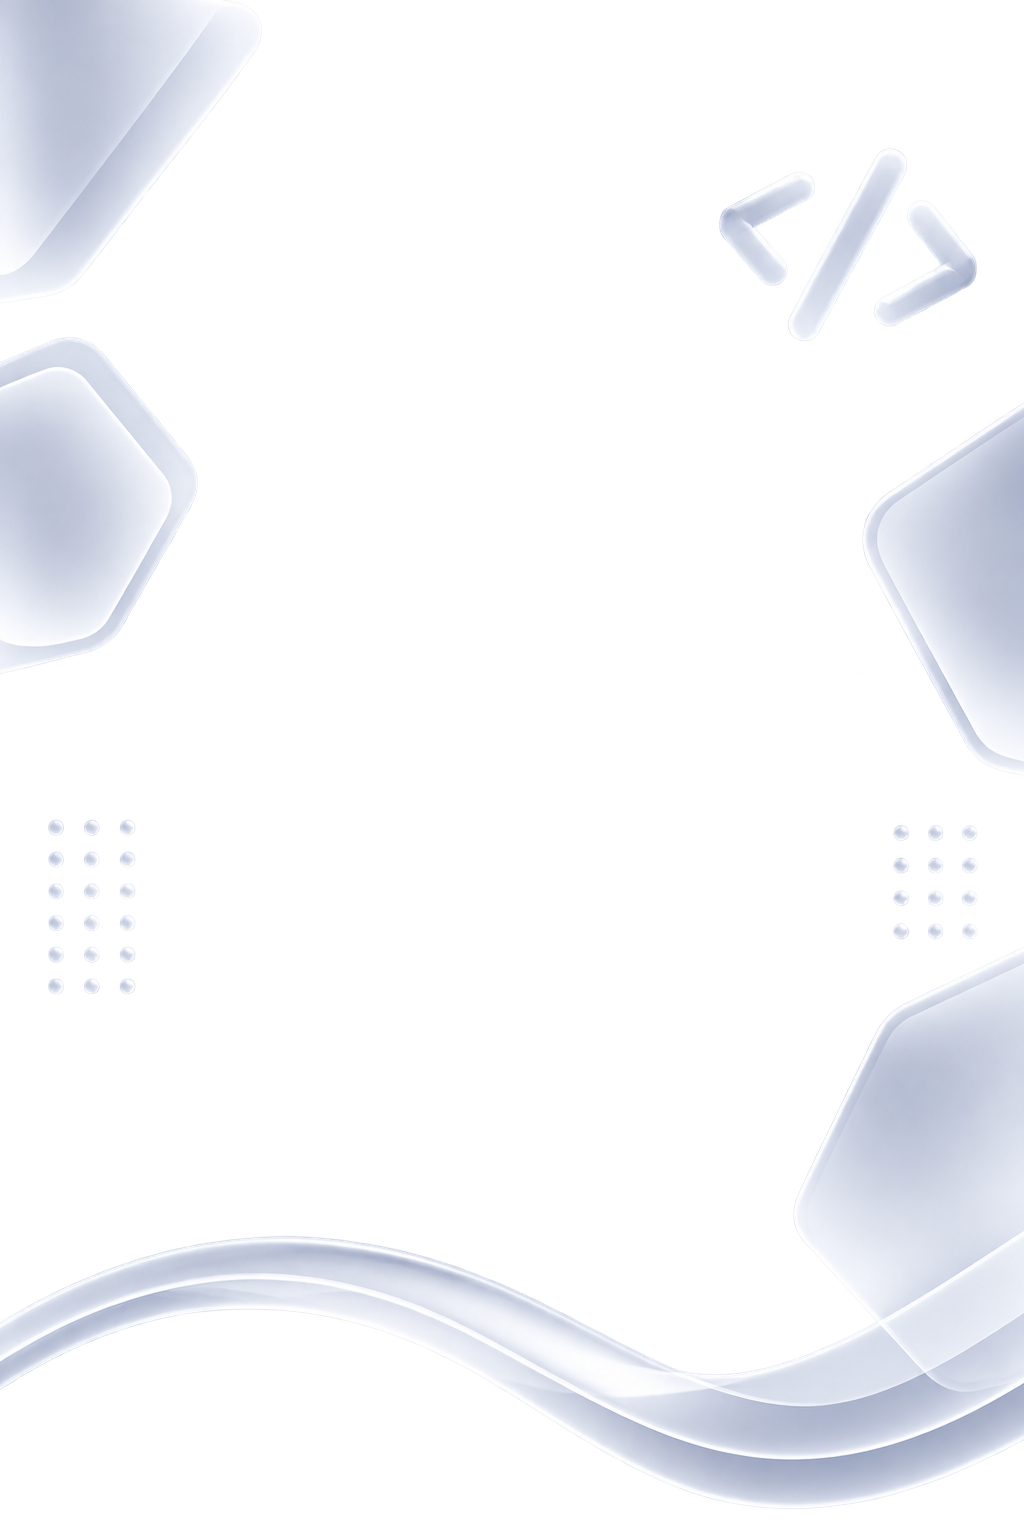
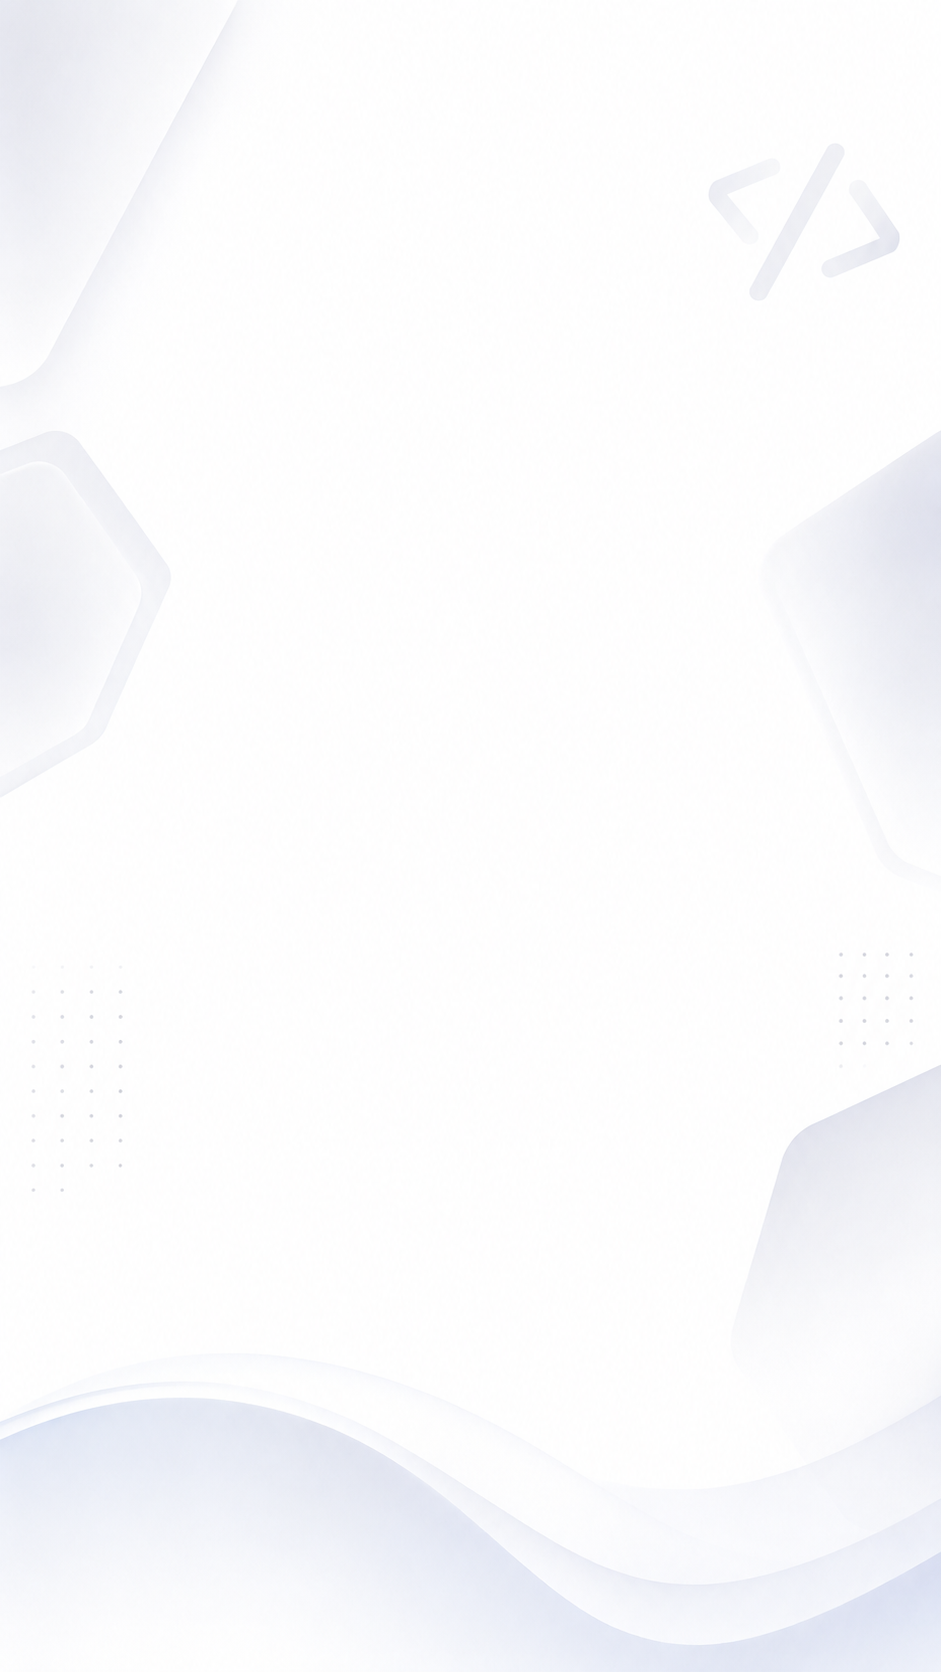
Fix mobile layout

diff --git a/src/index.css b/src/index.css
@@ -19,9 +19,9 @@ body {
 }
 
 .app-container {
-  min-height: 100vh;
   height: 100vh;
   width: 100vw;
+  overflow: hidden;
   background-image: url('../assets/bg-shapes-mobile.png');
   background-size: cover;
   background-position: top center;
@@ -102,7 +102,7 @@ body {
 }
 
 .nav-join-btn {
-  display: none;
+  display: none !important;
 }
 
 .menu-btn {
@@ -148,16 +148,24 @@ body {
   display: inline-flex;
   align-items: center;
   gap: 8px;
+  background-color: #f1fae6;
   padding: 8px 16px;
   border-radius: 30px;
   margin-bottom: 24px;
 }
 
+.dot {
+  width: 8px;
+  height: 8px;
+  background-color: var(--primary-green);
+  border-radius: 50%;
+}
 
-
-
-
-.hero-title {
+.pill-badge span {
+  font-size: 13px;
+  font-weight: 600;
+  color: #111;
+}.hero-title {
   font-size: 52px;
   font-weight: 900;
   line-height: 1.05;
@@ -227,12 +235,7 @@ body {
 }
 
 .hero-image-container {
-  width: 100%;
-  max-width: 600px;
-  margin-bottom: 20px;
-  position: relative;
-  display: flex;
-  justify-content: center;
+  display: none;
 }
 
 .mobile-img {
@@ -308,6 +311,10 @@ body {
 
 @media (min-width: 1024px) {
   .app-container {
+    height: auto;
+    min-height: 100vh;
+    overflow-x: hidden;
+    overflow-y: visible;
     background-image: url('../assets/bg-shapes-desktop.png');
   }
 
@@ -350,7 +357,7 @@ body {
   }
 
   .nav-join-btn {
-    display: flex;
+    display: flex !important;
     padding: 14px 24px;
     font-size: 14px;
     border-radius: 12px;

diff --git a/src/App.jsx b/src/App.jsx
@@ -50,6 +50,7 @@ function App() {
         
         <div className="hero-content">
           <div className="pill-badge">
+            <div className="dot"></div>
             <span>Student Driven Tech Community</span>
           </div>
 
